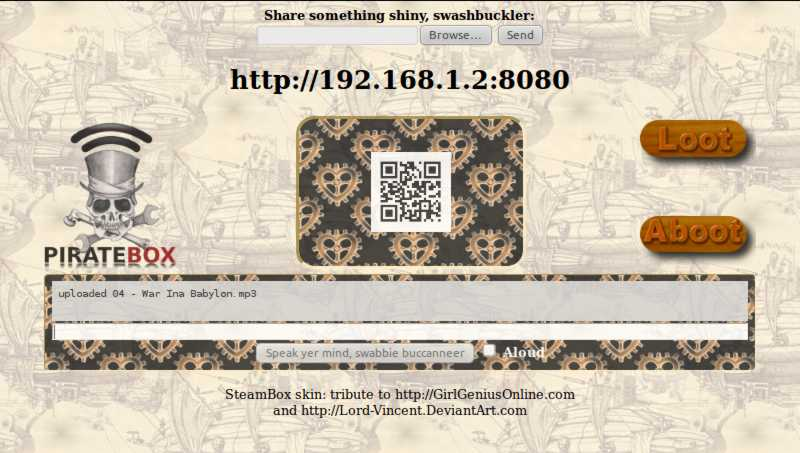
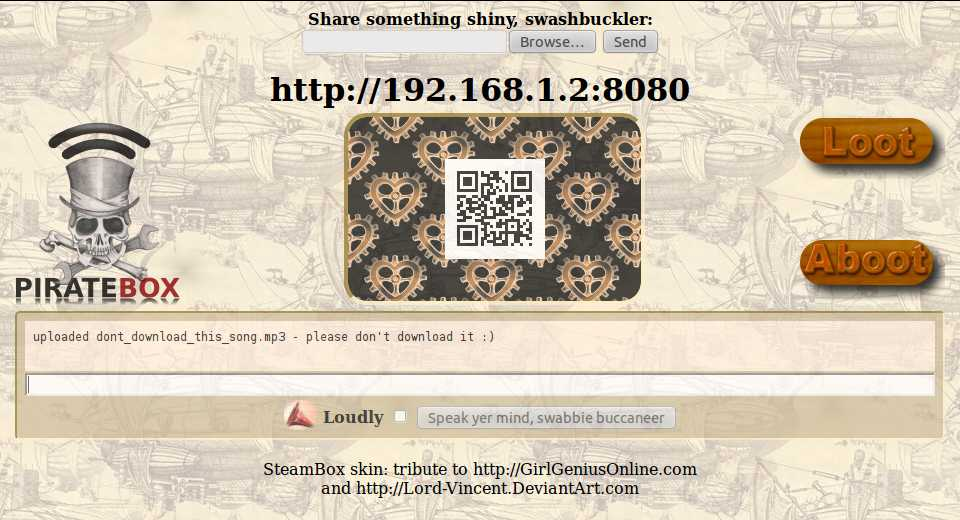
Cosmetics
Also force shoutbox refresh on load (redirect can create a stale iframe)

diff --git a/SteamBox/css/default.css b/SteamBox/css/default.css
@@ -2,6 +2,7 @@ body {background: #fed url('../images/girlgenius-dirigible-tile.png')}
 a:link, a:visited { color: #753; text-decoration:none; font-weight:bold }
 a:hover { color: #000 }
 a:focus, a:active { outline: 0 }
+h1 {margin:0}
 #qrdiv {
     padding:42px 23px;
     background:url('../images/girlgenius-heart-gear-tile.png');
@@ -14,7 +15,8 @@ a:focus, a:active { outline: 0 }
 
 }
 #shoutform {
-    background:black url('../images/girlgenius-heart-gear-tile.png');
+    /* background:black url('../images/girlgenius-heart-gear-tile.png'); */
+    background:#cb9;
     padding:8px;
     -moz-border-radius: 5px;
     -webkit-border-radius: 5px;
@@ -22,12 +24,11 @@ a:focus, a:active { outline: 0 }
     border-radius: 5px;
     opacity:0.7;
     border:inset #fc3 2px;
-    color:white;
     font-weight:bold;
 }
 #shoutbox {
     width:100%;
-    background:#ccc;
+    background:#fed;
     border:none;
     height:50px;
     margin-bottom:2px;
